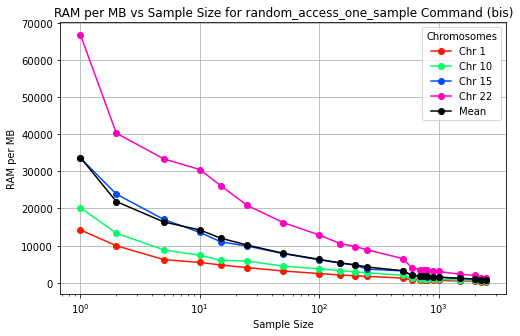
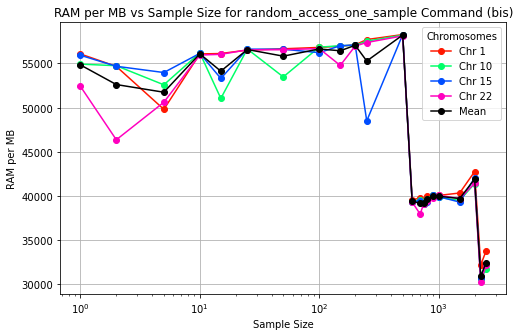
Update images and codes

diff --git a/Codes/RAMperMB_vs_SampleSize.py b/Codes/RAMperMB_vs_SampleSize.py
@@ -22,13 +22,13 @@ df['Input_file_size_MB'] = df['Input_file_size'] / 1048576
 df['RAM_per_MB'] = df['Memory_Used_MB'] / df['Input_file_size_MB']
 
 # Filter data for each command
-compress_df = df[df['Command'] == 'compress'][['Chromosome', 'Sample_Size',  'Input_file_size_MB', 'RAM_per_MB']].groupby(['Chromosome', 'Sample_Size'], as_index=False).mean()
-decompress_df = df[df['Command'] == 'decompress'][['Chromosome', 'Sample_Size',  'Input_file_size_MB', 'RAM_per_MB']].groupby(['Chromosome', 'Sample_Size'], as_index=False).mean()
+compress_df = df[df['Command'] == 'compress'][['Chromosome', 'Sample_Size',  'Input_file_size_MB', 'RAM_per_MB','Memory_Used_MB']].groupby(['Chromosome', 'Sample_Size'], as_index=False).mean()
+decompress_df = df[df['Command'] == 'decompress'][['Chromosome', 'Sample_Size',  'Input_file_size_MB', 'RAM_per_MB','Memory_Used_MB']].groupby(['Chromosome', 'Sample_Size'], as_index=False).mean()
 
 # For random_access, calculate the mean Time_per_MB for each Sample_Size
-random_access_df = df[df['Command'] == 'random_access'][['Chromosome', 'Sample_Size', 'Input_file_size_MB', 'RAM_per_MB']].groupby(['Chromosome', 'Sample_Size'], as_index=False).mean()
+random_access_df = df[df['Command'] == 'random_access'][['Chromosome', 'Sample_Size', 'Input_file_size_MB', 'RAM_per_MB','Memory_Used_MB']].groupby(['Chromosome', 'Sample_Size'], as_index=False).mean()
 
-ALL_df = df[['Command','Sample_Size',  'Input_file_size_MB', 'RAM_per_MB']].groupby(['Command','Sample_Size'], as_index=False).mean()
+ALL_df = df[['Command','Sample_Size',  'Input_file_size_MB', 'RAM_per_MB','Memory_Used_MB']].groupby(['Command','Sample_Size'], as_index=False).mean()
 ALL_compress_df = ALL_df[ALL_df['Command'] == 'compress']
 ALL_decompress_df = ALL_df[ALL_df['Command'] == 'decompress']
 ALL_random_access_df = ALL_df[ALL_df['Command'] == 'random_access']
@@ -102,15 +102,15 @@ df['Input_file_size_MB'] = df['Input_file_size'] / 1048576
 df['RAM_per_MB'] = df['Memory_Used_MB'] / df['Input_file_size_MB']
 
 # Filter data for each command
-compress_df = df[df['Command'] == 'compress'][['Chromosome', 'Sample_Size',  'Input_file_size_MB', 'RAM_per_MB']].groupby(['Chromosome', 'Sample_Size'], as_index=False).mean()
-decompress_df = df[df['Command'] == 'decompress'][['Chromosome', 'Sample_Size',  'Input_file_size_MB', 'RAM_per_MB']].groupby(['Chromosome', 'Sample_Size'], as_index=False).mean()
-decompress_one_sample_df = df[df['Command'] == 'decompress_one_sample'][['Chromosome', 'Sample_Size', 'Input_file_size_MB', 'RAM_per_MB']].groupby(['Chromosome', 'Sample_Size'], as_index=False).mean()
+compress_df = df[df['Command'] == 'compress'][['Chromosome', 'Sample_Size',  'Input_file_size_MB', 'RAM_per_MB','Memory_Used_MB']].groupby(['Chromosome', 'Sample_Size'], as_index=False).mean()
+decompress_df = df[df['Command'] == 'decompress'][['Chromosome', 'Sample_Size',  'Input_file_size_MB', 'RAM_per_MB','Memory_Used_MB']].groupby(['Chromosome', 'Sample_Size'], as_index=False).mean()
+decompress_one_sample_df = df[df['Command'] == 'decompress_one_sample'][['Chromosome', 'Sample_Size', 'Input_file_size_MB', 'RAM_per_MB','Memory_Used_MB']].groupby(['Chromosome', 'Sample_Size'], as_index=False).mean()
 
 # For random_access, calculate the mean Time_per_MB for each Sample_Size
-random_access_df = df[df['Command'] == 'random_access'][['Chromosome', 'Sample_Size', 'Input_file_size_MB', 'RAM_per_MB']].groupby(['Chromosome', 'Sample_Size'], as_index=False).mean()
-random_access_one_sample_df = df[df['Command'] == 'random_access_one_sample'][['Chromosome', 'Sample_Size', 'Input_file_size_MB', 'RAM_per_MB']].groupby(['Chromosome', 'Sample_Size'], as_index=False).mean()
+random_access_df = df[df['Command'] == 'random_access'][['Chromosome', 'Sample_Size', 'Input_file_size_MB', 'RAM_per_MB','Memory_Used_MB']].groupby(['Chromosome', 'Sample_Size'], as_index=False).mean()
+random_access_one_sample_df = df[df['Command'] == 'random_access_one_sample'][['Chromosome', 'Sample_Size', 'Input_file_size_MB', 'RAM_per_MB','Memory_Used_MB']].groupby(['Chromosome', 'Sample_Size'], as_index=False).mean()
 
-ALL_df = df[['Command','Sample_Size',  'Input_file_size_MB', 'RAM_per_MB']].groupby(['Command','Sample_Size'], as_index=False).mean()
+ALL_df = df[['Command','Sample_Size',  'Input_file_size_MB', 'RAM_per_MB','Memory_Used_MB']].groupby(['Command','Sample_Size'], as_index=False).mean()
 ALL_compress_df = ALL_df[ALL_df['Command'] == 'compress']
 ALL_decompress_df = ALL_df[ALL_df['Command'] == 'decompress']
 ALL_decompress_one_sample_df = ALL_df[ALL_df['Command'] == 'decompress_one_sample']
@@ -159,12 +159,12 @@ plt.show()
 # Plot for the "decompress_one_sample" command
 plt.figure(figsize=(8, 5))
 for chromosome, group in decompress_one_sample_df.groupby('Chromosome'):
-    plt.plot(group['Sample_Size'], group['RAM_per_MB'], marker='o', color=color_map[chromosome], label=f'Chr {chromosome}')
-plt.plot(ALL_decompress_one_sample_df['Sample_Size'], ALL_decompress_one_sample_df['RAM_per_MB'],marker='o', color='black', label="Mean")
+    plt.plot(group['Sample_Size'], group['Memory_Used_MB'], marker='o', color=color_map[chromosome], label=f'Chr {chromosome}')
+plt.plot(ALL_decompress_one_sample_df['Sample_Size'], ALL_decompress_one_sample_df['Memory_Used_MB'],marker='o', color='black', label="Mean")
 plt.xlabel('Sample Size')
-plt.ylabel('RAM per MB')
+plt.ylabel('RAM (MB)')
 plt.xscale("log")
-titre = 'RAM per MB vs Sample Size for Decompress_one_sample Command (bis)'
+titre = 'RAM vs Sample Size for Decompress_one_sample Command (bis)'
 plt.title(titre)
 plt.legend(title='Chromosomes')#,bbox_to_anchor=(1.2, 1.1))
 plt.grid(True)
@@ -189,8 +189,8 @@ plt.show()
 # Plot for the "random_access_one_sample" command
 plt.figure(figsize=(8, 5))
 for chromosome, group in random_access_one_sample_df.groupby('Chromosome'):
-    plt.plot(group['Sample_Size'], group['RAM_per_MB'], marker='o', color=color_map[chromosome], label=f'Chr {chromosome}')
-plt.plot(ALL_random_access_one_sample_df['Sample_Size'], ALL_random_access_one_sample_df['RAM_per_MB'],marker='o', color='black', label="Mean")
+    plt.plot(group['Sample_Size'], group['Memory_Used_MB'], marker='o', color=color_map[chromosome], label=f'Chr {chromosome}')
+plt.plot(ALL_random_access_one_sample_df['Sample_Size'], ALL_random_access_one_sample_df['Memory_Used_MB'],marker='o', color='black', label="Mean")
 plt.xlabel('Sample Size')
 plt.ylabel('RAM per MB')
 plt.xscale("log")

diff --git a/Codes/TimePerMB_vs_SampleSize.py b/Codes/TimePerMB_vs_SampleSize.py
@@ -89,28 +89,14 @@ for chromosome, group in random_access_df.groupby('Chromosome'):
 plt.plot(ALL_random_access_df['Sample_Size'], ALL_random_access_df['Time_per_MB'],marker='o', color='black', label="Mean")
 plt.xlabel('Sample Size')
 plt.xscale("log")
-titre = 'Time per MB (seconds) for random access'
+titre = 'Time per MB vs Sample Size for Random Access Command'
 plt.ylabel(titre)
-plt.title('Time per MB vs Sample Size for Random Access Command (Mean)')
+plt.title('Time per MB vs Sample Size for Random Access Command')
 plt.legend(title='Chromosomes',bbox_to_anchor=(1.2, 1.1))
 plt.grid(True)
 plt.savefig("E:\VM_data\Git\VCF_compression_benchmarking\Images\\" + titre, bbox_inches='tight')
 plt.show()
 
-# Plot for the "random_access" command with averaged Time_Seconds
-plt.figure(figsize=(8, 5))
-for chromosome, group in random_access_df.groupby('Chromosome'):
-    plt.plot(group['Sample_Size'], group['Time_Seconds'], marker='o', color=color_map[chromosome], label=f'Chr {chromosome}')
-plt.plot(ALL_random_access_df['Sample_Size'], ALL_random_access_df['Time_Seconds'],marker='o', color='black', label="Mean")
-plt.xlabel('Sample Size')
-plt.xscale("log")
-titre = 'Time (seconds) for random access'
-plt.ylabel(titre)
-plt.title('Time vs Sample Size for Random Access Command (Mean)')
-plt.legend(title='Chromosomses',bbox_to_anchor=(1.21, 1.1))
-plt.grid(True)
-plt.savefig("E:\VM_data\Git\VCF_compression_benchmarking\Images\\" + titre, bbox_inches='tight')
-plt.show()
 
 
 #%%
@@ -192,12 +178,12 @@ plt.show()
 # Plot for the "decompress_one_sample" command
 plt.figure(figsize=(8, 5))
 for chromosome, group in decompress_one_sample_df.groupby('Chromosome'):
-    plt.plot(group['Sample_Size'], group['Time_per_MB'], marker='o', color=color_map[chromosome], label=f'Chr {chromosome}')
-plt.plot(ALL_decompress_one_sample_df['Sample_Size'], ALL_decompress_one_sample_df['Time_per_MB'],marker='o', color='black', label="Mean")
+    plt.plot(group['Sample_Size'], group['Time_Seconds'], marker='o', color=color_map[chromosome], label=f'Chr {chromosome}')
+plt.plot(ALL_decompress_one_sample_df['Sample_Size'], ALL_decompress_one_sample_df['Time_Seconds'],marker='o', color='black', label="Mean")
 plt.xlabel('Sample Size')
-plt.ylabel('Time per MB (seconds)')
+plt.ylabel('Time (seconds)')
 plt.xscale("log")
-titre = 'Time per MB vs Sample Size for Decompress_One_Sample Command'
+titre = 'Time vs Sample Size for Decompress_One_Sample Command'
 plt.title(titre)
 plt.legend(title='Chromosomes')#,bbox_to_anchor=(1.21, 1))
 plt.grid(True)
@@ -211,7 +197,7 @@ for chromosome, group in random_access_df.groupby('Chromosome'):
 plt.plot(ALL_random_access_df['Sample_Size'], ALL_random_access_df['Time_per_MB'],marker='o', color='black', label="Mean")
 plt.xlabel('Sample Size')
 plt.xscale("log")
-plt.ylabel('Time per MB (seconds)')
+plt.ylabel('Time per MB (sec/MB)')
 titre = 'Time per MB vs Sample Size for Random Access Command (bis)'
 plt.title(titre)
 plt.legend(title='Chromosomes')#,bbox_to_anchor=(1.21, 1))
@@ -219,65 +205,6 @@ plt.grid(True)
 plt.savefig("E:\VM_data\Git\VCF_compression_benchmarking\Images\\" + titre, bbox_inches='tight')
 plt.show()
 
-# Plot for the "random_access" command with averaged Time_Seconds
-plt.figure(figsize=(8, 5))
-for chromosome, group in random_access_df.groupby('Chromosome'):
-    plt.plot(group['Sample_Size'], group['Time_Seconds'], marker='o', color=color_map[chromosome], label=f'Chr {chromosome}')
-plt.plot(ALL_random_access_df['Sample_Size'], ALL_random_access_df['Time_Seconds'],marker='o', color='black', label="Mean")
-plt.xlabel('Sample Size')
-#plt.xscale("log")
-plt.ylabel('Time (seconds)')
-titre = 'Time vs Sample Size for Random Access Command (bis)'
-plt.title(titre)
-plt.legend(title='Chromosomses')#,bbox_to_anchor=(1.21, 1))
-plt.grid(True)
-plt.savefig("E:\VM_data\Git\VCF_compression_benchmarking\Images\\" + titre, bbox_inches='tight')
-plt.show()
-
-# Plot for the "random_access" command with averaged Time_Seconds
-plt.figure(figsize=(8, 5))
-for chromosome, group in random_access_df.groupby('Chromosome'):
-    plt.plot(group['Sample_Size'], group['Time_Seconds'], marker='o', color=color_map[chromosome], label=f'Chr {chromosome}')
-plt.plot(ALL_random_access_df['Sample_Size'], ALL_random_access_df['Time_Seconds'],marker='o', color='black', label="Mean")
-plt.xlabel('Sample Size')
-plt.xscale("log")
-plt.ylabel('Time (seconds)')
-titre = 'Time vs Sample Size for Random Access Command (bis) non log-scale'
-plt.title(titre)
-plt.legend(title='Chromosomses')#,bbox_to_anchor=(1.21, 1))
-plt.grid(True)
-plt.savefig("E:\VM_data\Git\VCF_compression_benchmarking\Images\\" + titre, bbox_inches='tight')
-plt.show()
-
-# Plot for the "random_access_one_sample" command with averaged Time_per_MB
-plt.figure(figsize=(8, 5))
-for chromosome, group in random_access_one_sample_df.groupby('Chromosome'):
-    plt.plot(group['Sample_Size'], group['Time_per_MB'], marker='o', color=color_map[chromosome], label=f'Chr {chromosome}')
-plt.plot(ALL_random_access_one_sample_df['Sample_Size'], ALL_random_access_one_sample_df['Time_per_MB'],marker='o', color='black', label="Mean")
-plt.xlabel('Sample Size')
-plt.xscale("log")
-plt.ylabel('Time per MB (seconds)')
-titre = 'Time per MB vs Sample Size for Random Access_one_sample Command'
-plt.title(titre)
-plt.legend(title='Chromosomes')#,bbox_to_anchor=(1.21, 1))
-plt.grid(True)
-plt.savefig("E:\VM_data\Git\VCF_compression_benchmarking\Images\\" + titre, bbox_inches='tight')
-plt.show()
-
-# Plot for the "random_access" command with averaged Time_Seconds
-plt.figure(figsize=(8, 5))
-for chromosome, group in random_access_one_sample_df.groupby('Chromosome'):
-    plt.plot(group['Sample_Size'], group['Time_Seconds'], marker='o', color=color_map[chromosome], label=f'Chr {chromosome}')
-plt.plot(ALL_random_access_one_sample_df['Sample_Size'], ALL_random_access_one_sample_df['Time_Seconds'],marker='o', color='black', label="Mean")
-plt.xlabel('Sample Size')
-#plt.xscale("log")
-plt.ylabel('Time (seconds)')
-titre = 'Time vs Sample Size for Random Access_one_sample Command non log-scale'
-plt.title(titre)
-plt.legend(title='Chromosomses')#,bbox_to_anchor=(1.21, 1))
-plt.grid(True)
-plt.savefig("E:\VM_data\Git\VCF_compression_benchmarking\Images\\" + titre, bbox_inches='tight')
-plt.show()
 
 # Plot for the "random_access" command with averaged Time_Seconds
 plt.figure(figsize=(8, 5))
